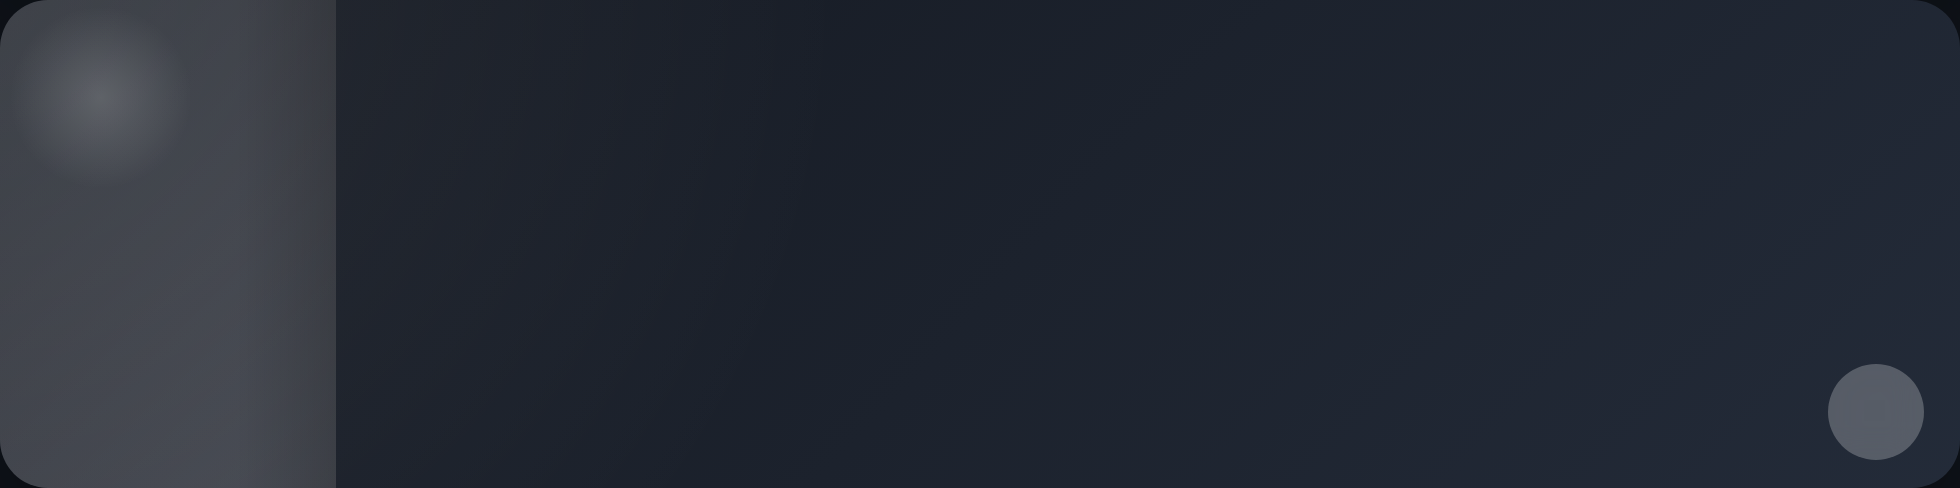
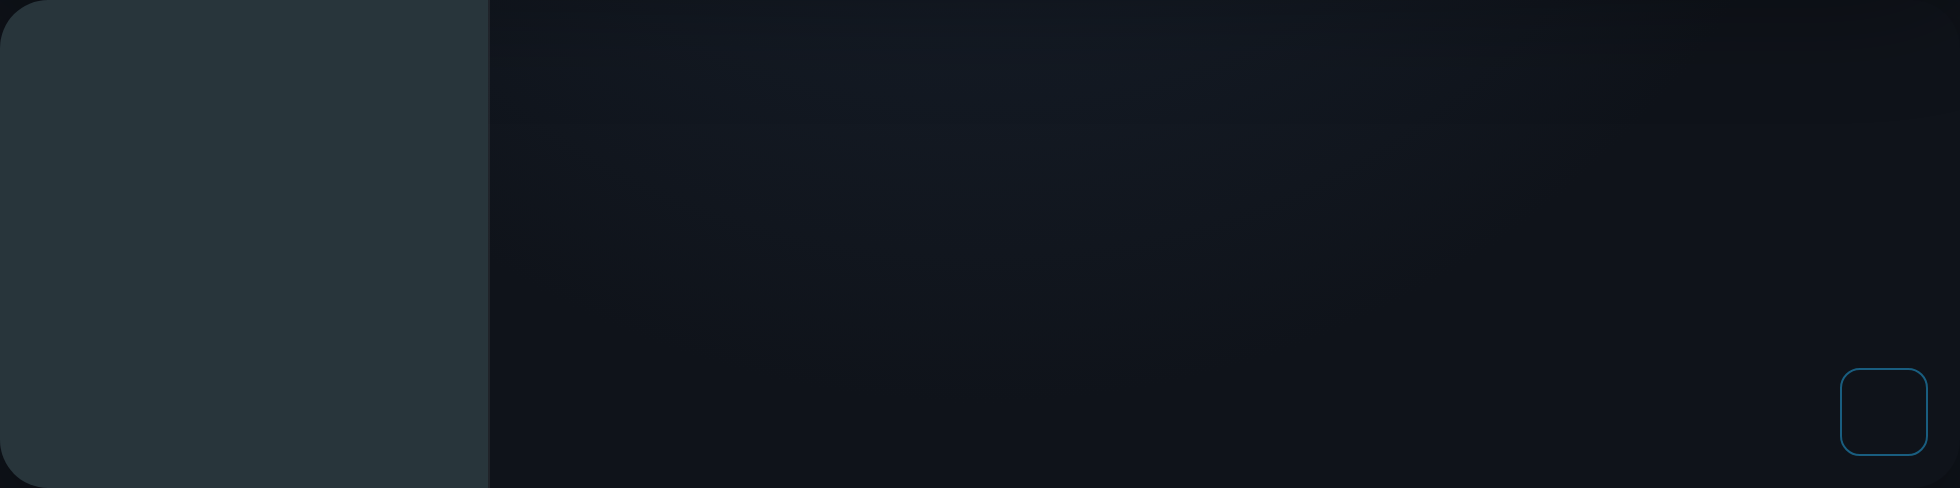
docs: refresh screenshots and readme after card ui changes

diff --git a/README.md b/README.md
@@ -6,9 +6,9 @@ Elegant now-playing Lovelace card for Home Assistant with artwork, metadata, and
 
 - HACS-installable custom card
 - Single `media_player` entity per card
-- Artwork on the left, metadata and controls on the right
-- Title and artist text left-aligned
-- Play/pause button always shown
+- Artwork on the left in a square, full-height panel
+- Title and optional artist text left-aligned on the right
+- Material Design transport icons with play/pause always shown
 - Previous/next buttons shown only when enabled **and** supported by the device
 - Height presets: `flat`, `compact`, `comfortable`, `tall`
 - GUI editor for entity, height, and skip controls
@@ -62,7 +62,8 @@ show_skip_controls: true
 ## Behaviour notes
 
 - If playback artwork is missing, the card shows a styled placeholder.
-- If title/artist metadata is missing, the card falls back to the entity name and state.
+- If title/artist metadata is missing, the card falls back to the entity name.
+- If a second media field like artist is unavailable, the card shows only the title line.
 - Skip buttons hide automatically when the selected player does not support them.
 - The main transport button toggles play/pause depending on the player state.
 
